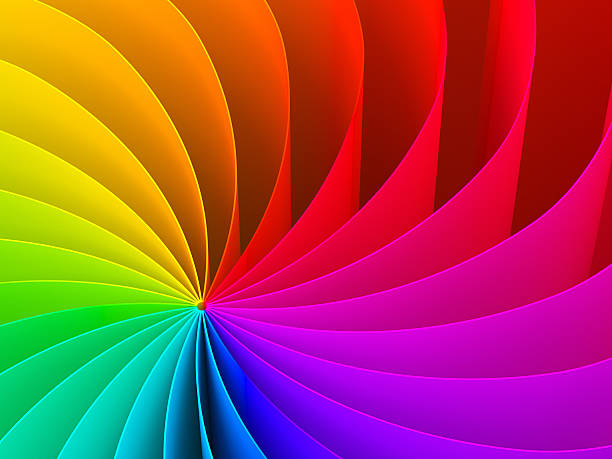
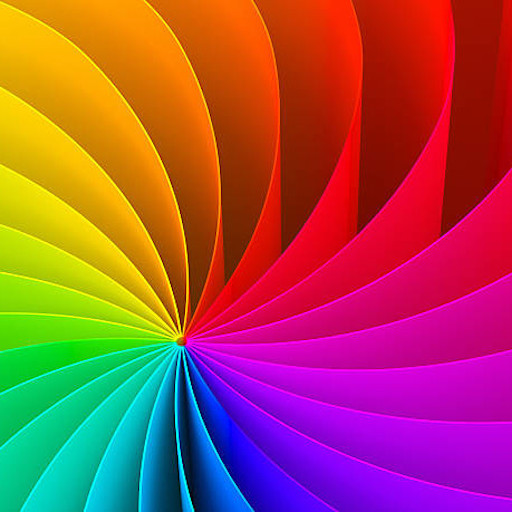
added new type of creating hsv, hsi and hsl

diff --git a/Lab2/BaseImage.py b/Lab2/BaseImage.py
@@ -11,11 +11,17 @@ class _BaseImage:
     data: np.ndarray  # tensor przechowujacy piksele obrazu
     color_model: _ColorModel  # atrybut przechowujacy biezacy model barw obrazu
 
-    def __init__(self, path: str, model: _ColorModel) -> None:
+    def __init__(self,data:np.ndarray = None, path: str = None, model: _ColorModel = None) -> None:
         """
         inicjalizator wczytujacy obraz do atrybutu data na podstawie sciezki
         """
-        self.data = imread(path)
+        if np.size(data) > 1:
+            self.data = data
+        elif path != None:
+            self.data = imread(path)
+        else:
+            print("Podaj dane, lub ścieżkę do pliku")
+            return
         self.color_model = model
         pass
 
@@ -32,6 +38,7 @@ class _BaseImage:
         """
         if self.color_model == _ColorModel.gray:
             imshow(self.data, cmap='gray')
+
         else:
             imshow(self.data)
         plt.show()
@@ -42,16 +49,19 @@ class _BaseImage:
         pass
 
     def calculate_H(self, r, g, b):
-        calc = np.power(r.astype(int), 2) + np.power(g.astype(int), 2) + np.power(b.astype(int), 2) - r.astype(int) * \
-               g.astype(int) - r.astype(int) * b.astype(int) - g.astype(int) * b.astype(int)
-        H = np.where(g >= b, np.arccos((r.astype(int) - g.astype(int) / 2 - b.astype(int) / 2) / np.sqrt(calc)
+        calc = np.power(r.astype(int), 2) + np.power(g.astype(int), 2) + np.power(b.astype(int), 2) - (r.astype(int) * \
+               g.astype(int)) - (r.astype(int) * b.astype(int)) - (g.astype(int) * b.astype(int))
+        calc_sqrt = np.sqrt(calc)
+        calc_sqrt[calc_sqrt == 0] = 1
+        H = np.where(g >= b, np.arccos((r - (g / 2) - (b / 2)) / calc_sqrt
                                      ) * 180 / pi,
-                     360 - np.arccos(((r.astype(int) - g.astype(int) / 2 - b.astype(int) / 2) / np.sqrt(calc))
+                     360 - np.arccos(((r - (g / 2) - (b / 2)) / calc_sqrt)
                                    ) * 180 / pi)
         return H
 
-    def get_layers(self):
+    def get_layers(self) -> np.ndarray:
         return np.squeeze(np.dsplit(self.data, self.data.shape[-1]))
+
 
     def to_hsv(self) -> '_BaseImage':
         """
@@ -63,9 +73,10 @@ class _BaseImage:
         r, g, b = self.get_layers()
         MAX = np.max([r, g, b], axis=0)
         MIN = np.min([r, g, b], axis=0)
-        V = MAX / 255
         H = self.calculate_H(r, g, b)
-        S = np.where(MAX > 0, 1 - MIN / MAX, 0)
+        diff = MIN / MAX
+        diff[np.isnan(diff)] = 1
+        S = np.where(MAX == 0, 0, (1 - diff))
         V = MAX / 255
         self.data = np.dstack((H, S, V))
         self.color_model = _ColorModel.hsv
@@ -81,19 +92,18 @@ class _BaseImage:
         """
         if self.color_model != _ColorModel.rgb:
             self.to_rgb()
-        r, g, b = np.float32(self.get_layers())
+        R, G, B = np.float32(self.get_layers())
+        sum = R + G + B
+        sum[sum == 0] = 0.0001
+        r = R / sum
+        g = G / sum
+        b = B / sum
         MIN = np.min([r, g, b], axis=0)
-        calc = np.power(r, 2) + np.power(g, 2) + np.power(b, 2) - r * \
-               g - r * b - g * b
-        H = np.where(g >= b, np.arccos((r - g / 2 - b / 2) / np.sqrt(calc)
-                                       ) * 180 / pi,
-                     360 - np.arccos(((r.astype(int) - g.astype(int) / 2 - b.astype(int) / 2) / np.sqrt(calc))
-                                     ) * 180 / pi)
-        I = (r + g + b) / 3
-        S = np.where(I > 0, 1 - MIN / I, 0)
+        H = self.calculate_H(R,G,B)
+        I = (R + G + B) / (3 * 255)
+        S = 1 - 3 * MIN
         self.data = np.dstack((H, S, I))
         self.color_model = _ColorModel.hsi
-
         print('Przekonwertowano na HSI')
         return self
         pass
@@ -107,10 +117,12 @@ class _BaseImage:
         MAX = np.max([r, g, b], axis=0)
         MIN = np.min([r, g, b], axis=0)
         D = (MAX - MIN)/255
-        H= self.calculate_H(r, g, b)
-        L = (0.5 * (MAX.astype(int) + MIN.astype(int))) / 255
-        S = np.where(L>0, D / (1 - abs (2 * L - 1)), 0)
-
+        H = self.calculate_H(r, g, b)
+        L = (0.5 * (MAX.astype(int) + MIN.astype(int))).astype(int) / 255
+        calc = (1 - abs(2 * L - 1))
+        S = np.where(L > 0, D / calc, 0)
+        S[S > 1] = 1
+        S[S < 0] = 0.00001
         self.data = np.dstack((H, S, L))
         self.color_model = _ColorModel.hsl
 
@@ -125,62 +137,96 @@ class _BaseImage:
         """
         """Konwersja do Z HSV DO RGB"""
         if self.color_model == _ColorModel.hsv:
-                H, S, V = np.squeeze(np.dsplit(self.data, self.data.shape[-1]))
+                H, S, V = self.get_layers()
                 MAX = 255 * V
                 MIN = MAX * (1 - S)
-                z = (MAX - MIN) * (1 - abs(((H / 60) % 2) - 1))
+                z = (MAX - MIN) * (1 - abs(((np.radians(H) / np.radians(60)) % 2) - 1))
                 r = np.where(H >= 300, MAX,
-                             np.where(H >= 240, z + MIN, np.where(H >= 120, MIN, np.where(H >= 60, z + MIN, MAX))))
+                             np.where(H >= 240, z.astype(int) + MIN.astype(int),
+                                      np.where(H >= 120, MIN,
+                                               np.where(H >= 60, z.astype(int) + MIN.astype(int), MAX))))
                 g = np.where(H >= 300, MIN,
-                             np.where(H >= 240, MIN, np.where(H >= 120, MAX, np.where(H >= 60, MAX, z + MIN))))
-                b = np.where(H >= 300, z + MIN, np.where(H >= 240, MAX, np.where(H >= 120, z + MIN, MIN)))
+                             np.where(H >= 240, MIN,
+                                      np.where(H >= 120, MAX,
+                                               np.where(H >= 60, MAX, z + MIN))))
+                b = np.where(H >= 300, z + MIN,
+                            np.where(H >= 240, MAX,
+                                      np.where(H >= 120, z + MIN, MIN)))
+
                 self.color_model = _ColorModel.rgb
-                self.data = np.dstack((r, g, b)).astype(np.uint16)
+                self.data = np.dstack((r, g, b)).astype(np.uint8)
 
                 print('Przekonwertowano na z HSV na RGB')
 
         """Konwersja do Z HSI DO RGB"""
         if self.color_model == _ColorModel.hsi:
-            H, S, I = np.squeeze(np.dsplit(self.data, self.data.shape[-1]))
-
+            H, S, I = self.get_layers()
+            h = H * np.pi / 180
+            s = S
+            i = I
             rows = self.data.shape[0]
             columns = self.data.shape[1]
-
             r = np.zeros((rows, columns))
             g = np.zeros((rows, columns))
             b = np.zeros((rows, columns))
-
-            for i in range(rows):
+            for k in range(rows):
                 for j in range(columns):
+                    if h[k, j] < np.pi * 2 / 3:
+                        x = i[k, j] * (1 - s[k, j])
+                        y = i[k, j] * (1 + s[k, j] * np.cos(h[k, j]) / np.cos(np.pi / 3 - h[k, j]))
+                        z = 3 * i[k, j] - (x + y)
+                        r[k, j] = y
+                        g[k, j] = z
+                        b[k, j] = x
+                    if np.pi * 2 / 3 <= h[k, j] < np.pi * 4 /3 :
+                        h[k, j] = h[k, j] - np.pi * 2 /3
+                        x = i[k, j] * (1 - s[k, j])
+                        y = i[k, j] * (1 + s[k, j] * np.cos(h[k, j]) / np.cos(np.pi / 3 - h[k, j]))
+                        z = 3 * i[k, j] - (x + y)
+                        r[k, j] = x
+                        g[k, j] = y
+                        b[k, j] = z
 
-                    if b[i, j] == g[i, j] == r[i, j]:
-                        H[i, j] = 0
+                    if np.pi * 4 /3 < h[k, j] < np.pi * 2:
+                        h[k, j] = h[k, j] - np.pi * 4 / 3
+                        x = i[k, j] * (1 - s[k, j])
+                        y = i[k, j] * (1 + s[k, j] * np.cos(h[k, j]) / np.cos(np.pi / 3 - h[k, j]))
+                        z = 3 * i[k,j] - (x + y)
+                        r[k, j] = z
+                        g[k, j] = x
+                        b[k, j] = y
 
-                    if H[i, j] == 0:
-                        r[i, j] = I[i, j] + 2 * (I[i, j] * S[i, j])
-                        g[i, j] = I[i, j] - I[i, j] * S[i, j]
-                        b[i, j] = I[i, j] - I[i, j] * S[i, j]
 
-                    if 0 <= H[i, j] <= 120:
-                        b[i, j] = I[i, j] * (1 - S[i, j])
-                        r[i, j] = I[i, j] * (
-                                1 + (S[i, j] * np.cos(np.radians(H[i, j]))) / np.cos(np.radians(60) - np.radians(H[i, j])))
-                        g[i, j] = 3 * I[i, j] - (r[i, j] + b[i, j])
+                        # r = np.where(H > 240, I + I * S * (
+                        #             1 - np.cos(np.radians(H - - 240)) / np.cos(np.radians(300) - np.radians(H))),
+                        #              np.where(H == 240, I - I * S,
+                        #                       np.where(H > 120, I - I * S,
+                        #                                np.where(H == 120, I - I * S,
+                        #                                         np.where(H > 0, I + I * S *
+                        #                                                  np.cos(np.radians(H)) / np.cos(
+                        #                                             np.radians(60) - np.radians(H)),
+                        #                                                  I + 2 * I * S)))))
+                        # g = np.where(H >= 240, I - I * S,
+                        #              np.where(H > 120, I + I * S * np.cos(np.radians(H) - np.radians(120)) / np.cos(
+                        #                  np.radians(180) - np.radians(H)),
+                        #                       np.where(H == 120, I + 2 * I * S,
+                        #                                np.where(H > 0, I + I * S * (1 + np.cos(np.radians(H)) / np.cos(
+                        #                                    np.radians(60) - np.radians(H))),
+                        #                                         I - I * S))))
+                        # b = np.where(H > 240, I + I * S * np.cos(np.radians(H) - np.radians(240)) / np.cos(
+                        #     np.radians(300) - np.radians(H)),
+                        #              np.where(H == 240, I + 2 * I * S,
+                        #                       np.where(H > 120, I + I * S * (
+                        #                                   1 - np.cos(np.radians(H) - np.radians(120)) / np.cos(
+                        #                               np.radians(180) - np.radians(H))),
+                        #                                np.where(H == 120, I - I * S, I - I * S))))
+            r[r > 1] = 1
+            g[g > 1] = 1
+            b[b > 1] = 1
+            r = r * 255
+            g = g * 255
+            b = b * 255
 
-                    if 120 < H[i, j] <= 240 or H[i, j] == 120:
-                        r[i, j] = I[i, j] * (1 - S[i, j])
-                        g[i, j] = I[i, j] * (
-                                1 + (S[i, j] * np.cos(np.radians(H[i, j]))) / np.cos(np.radians(60) - np.radians(H[i, j])))
-                        b[i, j] = 3 * I[i, j] - (r[i, j] + g[i, j])
-
-                    if 240 < H[i, j] <= 360 or H[i, j] == 240:
-                        g[i, j] = I[i, j] * (1 - S[i, j])
-                        b[i, j] = I[i, j] * (
-                                1 + (S[i, j] * np.cos(np.radians(H[i, j]))) / np.cos(np.radians(60) - np.radians(H[i, j])))
-                        r[i, j] = 3 * I[i, j] - (g[i, j] + b[i, j])
-
-                    elif r[i, j] > 255:
-                        r[i, j] = 255
             self.data = np.dstack((r, g, b)).astype(np.uint16)
             self.color_model = _ColorModel.rgb
 

diff --git a/Lab2/main.py b/Lab2/main.py
@@ -1,9 +1,11 @@
 from BaseImage import _BaseImage, _ColorModel
 from Histogram import _Histogram
-file2 = _BaseImage('data/lena.jpg', _ColorModel.rgb)
-file2.to_hsi()
+from GrayScale import _GrayScaleTransform
+file1 = _BaseImage(path='data/lena3.jpg', model=_ColorModel.rgb)
+file2 = _BaseImage(data=file1.data, model=_ColorModel.rgb)
+file3 = _GrayScaleTransform(data=file1.data, model=_ColorModel.rgb)
 file2.show_img()
-hist = _Histogram(file2.data)
-hist.plot()
+file2.to_hsl()
+file2.show_img()
 file2.to_rgb()
 file2.show_img()

diff --git a/Lab2/GrayScale.py b/Lab2/GrayScale.py
@@ -2,8 +2,8 @@ from BaseImage import _BaseImage, np, _ColorModel
 
 
 class _GrayScaleTransform(_BaseImage):
-    def __init__(self,path: str, model:_ColorModel) -> None:
-        super().__init__(path, model)
+    def __init__(self, data:np.ndarray = None, path: str = None, model:_ColorModel = None) -> None:
+        super().__init__(data,path, model)
         pass
 
     def to_gray(self) -> _BaseImage:
